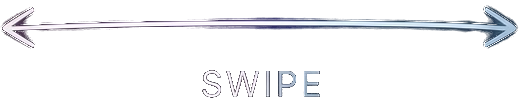
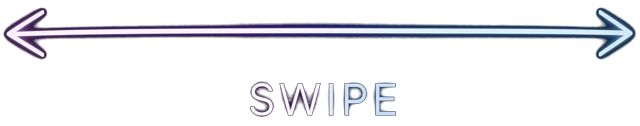
Use v2 swipe-hint + v3 card-frame assets; Reels enter/exit frame slide.
Selected option uses card-frame img (no CSS neon rings); SWIPE hint is transparent picture/img. New items remount play-stage with enter-from-below and a settled TR strip (skipTransition + sync rebuild).

Changed region(s): [[0.0, 0.0583, 1.0, 0.4951], [0.3692, 0.6408, 0.6462, 0.9612]]

diff --git a/src/App.tsx b/src/App.tsx
@@ -1,4 +1,4 @@
-import { useCallback, useEffect, useRef, useState, type MouseEvent, type PointerEvent } from 'react'
+import { useCallback, useEffect, useLayoutEffect, useRef, useState, type MouseEvent, type PointerEvent } from 'react'
 import vocabRaw from './data/vocab.json'
 import { EnglishSentence } from './components/EnglishSentence'
 import { OptionStrip } from './components/OptionStrip'
@@ -26,7 +26,7 @@ function wrapIndex(i: number, n: number): number {
   return ((i % n) + n) % n
 }
 
-/** Reels-style exit: keep in sync with CSS reel-exit-up (~640ms ease-out). */
+/** Reels frame slide: keep in sync with CSS reel-exit-up (~640ms). Enter is on remount. */
 const EXIT_OK_MS = 620
 const EXIT_TIMEOUT_MS = 680
 const EXIT_WRONG_MS = 820
@@ -91,6 +91,8 @@ export default function App() {
 
   const current = !sessionOver ? (queue[0] ?? null) : null
 
+  const builtForEn = useRef<string | null>(null)
+
   const rebuildOptions = useCallback((item: VocabItem) => {
     const { options: opts, correctIndex: ci } = buildOptions(item, vocab)
     setOptions(opts)
@@ -104,10 +106,14 @@ export default function App() {
     setDragX(0)
     setDragY(0)
     setDragging(false)
+    builtForEn.current = item.en
   }, [])
 
-  useEffect(() => {
-    if (current) rebuildOptions(current)
+  // Safety net (initial mount / session restart): settle options before paint
+  useLayoutEffect(() => {
+    if (current && builtForEn.current !== current.en) {
+      rebuildOptions(current)
+    }
   }, [current, rebuildOptions])
 
   useEffect(() => {
@@ -124,21 +130,27 @@ export default function App() {
   const startNewSession = useCallback(() => {
     const p = loadProgress()
     setProgress(p)
-    setQueue(pickSession(vocab, p))
+    const next = pickSession(vocab, p)
+    setQueue(next)
     setDoneCount(0)
     doneRef.current = 0
     setScore({ ok: 0, wrong: 0 })
     setSessionOver(false)
-    setFlash('none')
-    setRevealCorrect(null)
-    lockingRef.current = false
-    setLocking(false)
-    setExitUp(false)
     setRemain(null)
-    setDragX(0)
-    setDragY(0)
-    setDragging(false)
-  }, [])
+    const head = next[0]
+    if (head) rebuildOptions(head)
+    else {
+      setFlash('none')
+      setRevealCorrect(null)
+      lockingRef.current = false
+      setLocking(false)
+      setExitUp(false)
+      setDragX(0)
+      setDragY(0)
+      setDragging(false)
+      builtForEn.current = null
+    }
+  }, [rebuildOptions])
 
   const goNext = useCallback((wasCorrect: boolean, item: VocabItem) => {
     const nextDone = doneRef.current + 1
@@ -157,34 +169,45 @@ export default function App() {
       setDragX(0)
       setDragY(0)
       setDragging(false)
+      builtForEn.current = null
       return
     }
 
+    let nextQueue: VocabItem[] = []
     setQueue((q) => {
       const rest = q.slice(1)
-      if (!wasCorrect) return requeueWrong(rest, item)
-      const entry = loadProgress()[item.en]
-      const streak = entry?.streak ?? 0
-      if (streak >= 3 && Math.random() < 0.12) {
-        return [...rest, item]
+      if (!wasCorrect) nextQueue = requeueWrong(rest, item)
+      else {
+        const entry = loadProgress()[item.en]
+        const streak = entry?.streak ?? 0
+        if (streak >= 3 && Math.random() < 0.12) {
+          nextQueue = [...rest, item]
+        } else if (rest.length === 0) {
+          const filler = pickSession(vocab, loadProgress()).filter(
+            (x) => x.en !== item.en,
+          )
+          nextQueue = filler.slice(0, 3)
+        } else {
+          nextQueue = rest
+        }
       }
-      if (rest.length === 0) {
-        const filler = pickSession(vocab, loadProgress()).filter(
-          (x) => x.en !== item.en,
-        )
-        return filler.slice(0, 3)
-      }
-      return rest
+      return nextQueue
     })
-    setFlash('none')
-    setRevealCorrect(null)
-    lockingRef.current = false
-    setLocking(false)
-    setExitUp(false)
-    setDragX(0)
-    setDragY(0)
-    setDragging(false)
-  }, [])
+
+    // Rebuild in the same turn as queue advance so first paint is settled (no TR jitter)
+    const head = nextQueue[0]
+    if (head) rebuildOptions(head)
+    else {
+      setFlash('none')
+      setRevealCorrect(null)
+      lockingRef.current = false
+      setLocking(false)
+      setExitUp(false)
+      setDragX(0)
+      setDragY(0)
+      setDragging(false)
+    }
+  }, [rebuildOptions])
 
   const resolveAnswer = useCallback(
     (forceWrong = false) => {
@@ -423,7 +446,10 @@ export default function App() {
           </div>
         </div>
       ) : (
-        <div className={`play-stage${exitUp ? ' is-exit-up' : ''}`}>
+        <div
+          key={current.en}
+          className={`play-stage${exitUp ? ' is-exit-up' : ''}`}
+        >
           <section
             className="en-area"
             style={exitUp ? undefined : { transform: `translate3d(0, ${liftY}px, 0)` }}
@@ -432,7 +458,9 @@ export default function App() {
           </section>
 
           <section className={`tr-area${frozen ? ' is-frozen' : ''}`}>
+            {/* key remount: transform jumps to final selected with transition:none (no strip jitter) */}
             <OptionStrip
+              key={current.en}
               options={options}
               selected={selected}
               revealCorrect={revealCorrect}

diff --git a/src/App.css b/src/App.css
@@ -273,9 +273,11 @@ body,
   gap: 28px;
   padding: 12px 0 2px;
   will-change: transform, opacity;
+  /* New sentence arrives from below — framed card unit slides like Reels */
+  animation: reel-enter-up 0.58s var(--reel-out) both;
 }
 
-/* Reels-style upward swipe — slow ease-out, not a snap */
+/* Reels-style upward swipe — whole EN+TR frame exits */
 .play-stage.is-exit-up {
   animation: reel-exit-up 0.64s var(--reel-out) forwards;
   pointer-events: none;
@@ -285,6 +287,20 @@ body,
 .app.is-exit-up .top-rule {
   opacity: 0.28;
   transition: opacity 0.32s ease;
+}
+
+@keyframes reel-enter-up {
+  0% {
+    transform: translate3d(0, 108%, 0) scale(0.98);
+    opacity: 0;
+  }
+  55% {
+    opacity: 1;
+  }
+  100% {
+    transform: translate3d(0, 0, 0) scale(1);
+    opacity: 1;
+  }
 }
 
 @keyframes reel-exit-up {
@@ -461,13 +477,14 @@ body,
   will-change: transform, opacity;
 }
 
-/* Selected: v2 double thin parallel magenta→cyan neon (CSS only) */
+/* Selected: 1:1 neon frame asset (card-frame) over glass fill ~0.5 */
 .option-card.is-selected {
   transform: scale(1);
   opacity: 1;
   z-index: 2;
   border: none;
   border-radius: var(--radius-card);
+  overflow: hidden;
   background-image: linear-gradient(rgba(6, 6, 14, 0.5), rgba(6, 6, 14, 0.5));
   background-origin: padding-box;
   background-clip: padding-box;
@@ -478,47 +495,16 @@ body,
     0 0 32px rgba(90, 210, 255, 0.06);
 }
 
-.option-card.is-selected::before,
-.option-card.is-selected::after {
-  content: '';
+/* Frame asset — real white→alpha PNG/WebP; neon rim only, no plate */
+.card-frame-img {
   position: absolute;
-  pointer-events: none;
-  background: linear-gradient(
-    90deg,
-    #efd2ff 0%,
-    #e0c0ff 28%,
-    #b8e4ff 72%,
-    #c4f2ff 100%
-  );
-  -webkit-mask:
-    linear-gradient(#fff 0 0) content-box,
-    linear-gradient(#fff 0 0);
-  -webkit-mask-composite: xor;
-  mask:
-    linear-gradient(#fff 0 0) content-box,
-    linear-gradient(#fff 0 0);
-  mask-composite: exclude;
-}
-
-/* Outer concentric stroke — soft even bloom stays outside the gap */
-.option-card.is-selected::before {
   inset: 0;
+  width: 100%;
+  height: 100%;
+  object-fit: fill;
+  pointer-events: none;
+  z-index: 0;
   border-radius: inherit;
-  padding: 1.15px;
-  z-index: 0;
-  filter:
-    drop-shadow(-1px 0 2.5px rgba(214, 160, 255, 0.32))
-    drop-shadow(1px 0 2.5px rgba(120, 220, 255, 0.26));
-}
-
-/* Inner concentric stroke — ~6px dark gap, no inner bloom (not fused) */
-.option-card.is-selected::after {
-  inset: 7px;
-  border-radius: calc(var(--radius-card) - 7px);
-  padding: 1.05px;
-  z-index: 0;
-  opacity: 0.9;
-  filter: none;
 }
 
 .option-card.is-side {
@@ -556,19 +542,11 @@ body,
     0 0 24px rgba(250, 107, 122, 0.12);
 }
 
-/* Reveal/wrong: drop neon double frame so state colors stay readable */
-.option-card.is-selected.is-reveal::before,
-.option-card.is-selected.is-reveal::after,
-.option-card.is-selected.is-wrong::before,
-.option-card.is-selected.is-wrong::after {
-  content: none;
-  display: none;
-  filter: none;
-}
-
+/* Reveal/wrong: no frame asset (not rendered); keep state colors readable */
 .option-card.is-selected.is-reveal,
 .option-card.is-selected.is-wrong {
   border-radius: var(--radius-card);
+  overflow: hidden;
 }
 
 .option-card.is-locked.is-selected:not(.is-reveal):not(.is-wrong) {
@@ -801,8 +779,17 @@ body,
 }
 
 @media (prefers-reduced-motion: reduce) {
+  .play-stage {
+    animation: reel-enter-fade 0.35s ease both;
+  }
+
   .play-stage.is-exit-up {
     animation: reel-exit-fade 0.4s ease forwards;
+  }
+
+  @keyframes reel-enter-fade {
+    from { opacity: 0; }
+    to { opacity: 1; }
   }
 
   @keyframes reel-exit-fade {

diff --git a/src/components/OptionStrip.tsx b/src/components/OptionStrip.tsx
@@ -31,6 +31,12 @@ export function OptionStrip({
   const viewportRef = useRef<HTMLDivElement>(null)
   const [vw, setVw] = useState(360)
   const prevSelected = useRef(selected)
+  // First paint after remount: no strip transition (Reels frame slides; TR is settled)
+  const [skipTransition, setSkipTransition] = useState(true)
+  useLayoutEffect(() => {
+    if (!skipTransition) return
+    setSkipTransition(false)
+  }, [skipTransition])
 
   useLayoutEffect(() => {
     const el = viewportRef.current
@@ -95,7 +101,8 @@ export function OptionStrip({
           paddingLeft: sidePad,
           transform: `translate3d(${tx}px, 0, 0)`,
           // Inline wins over stylesheet while finger is down / locked / wrap jump
-          transition: frozen || dragging || isWrapJump ? 'none' : undefined,
+          transition:
+            skipTransition || frozen || dragging || isWrapJump ? 'none' : undefined,
         }}
       >
         {cards.map(({ text, realIndex, key }) => {
@@ -105,6 +112,7 @@ export function OptionStrip({
           const isReveal = !isClone && revealCorrect !== null && realIndex === revealCorrect
           const isWrongSel =
             revealCorrect !== null && isSel && selected !== revealCorrect
+          const showFrame = isSel && revealCorrect === null
           return (
             <div
               key={key}
@@ -119,6 +127,20 @@ export function OptionStrip({
                 .join(' ')}
               style={{ width: cardW, marginRight: GAP_PX }}
             >
+              {showFrame && (
+                <picture>
+                  <source
+                    srcSet="/english-swipe-learn/card-frame.webp"
+                    type="image/webp"
+                  />
+                  <img
+                    className="card-frame-img"
+                    src="/english-swipe-learn/card-frame.png"
+                    alt=""
+                    aria-hidden
+                  />
+                </picture>
+              )}
               <p className="option-text" lang="tr">
                 {text}
               </p>
